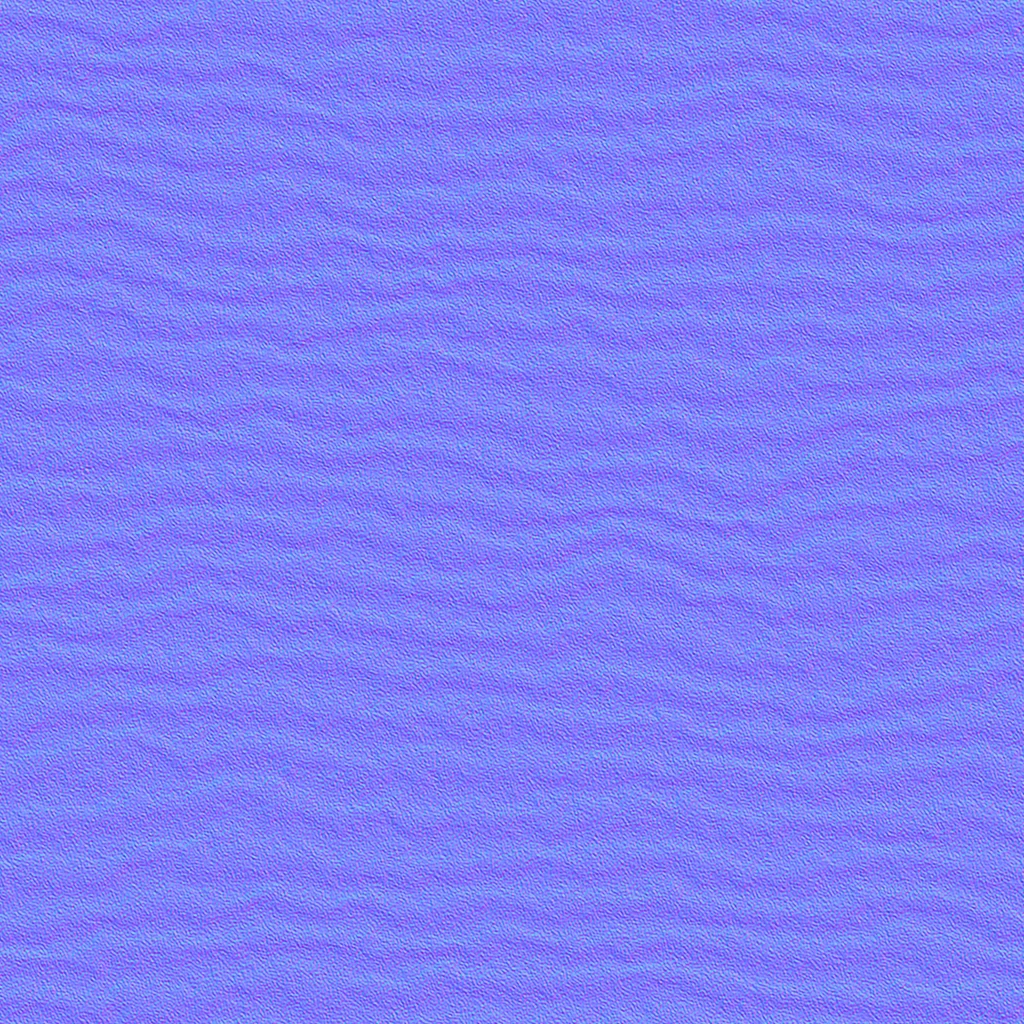
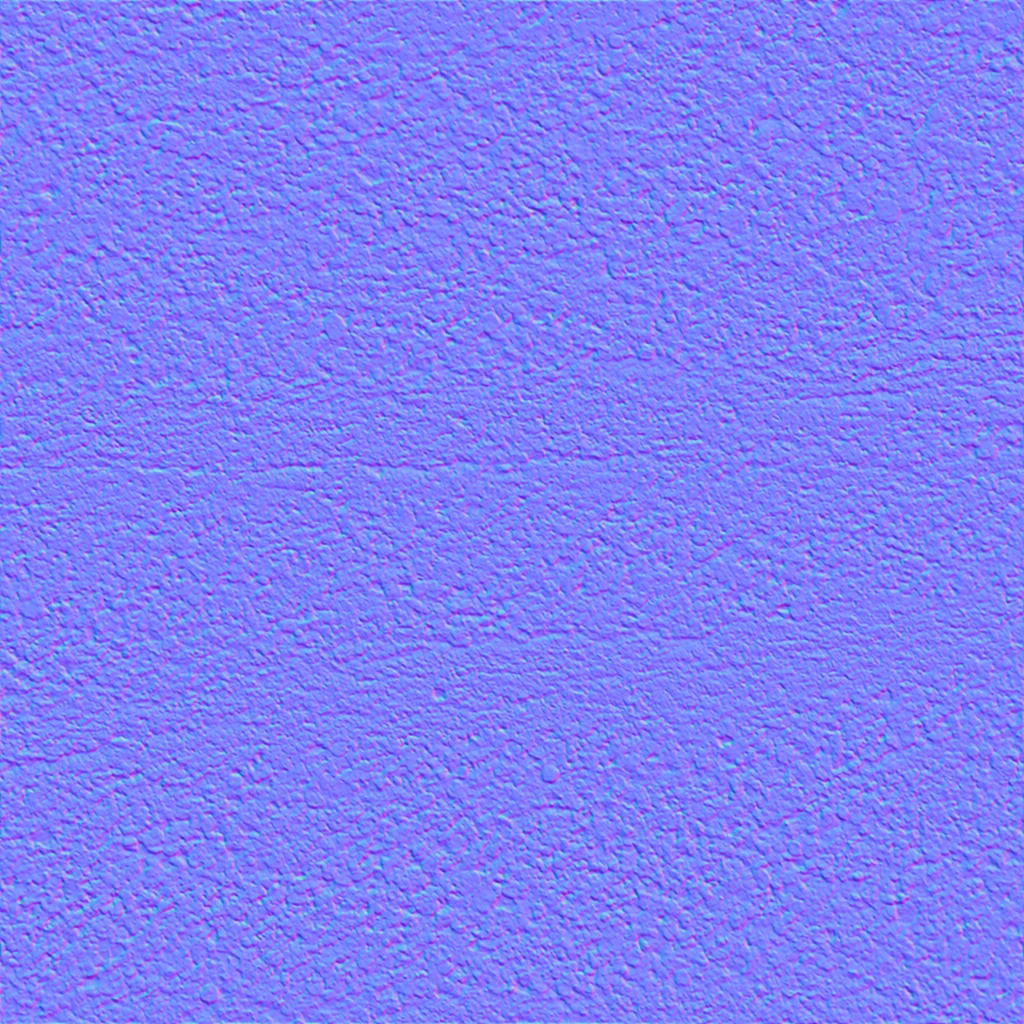
Terra v1.4.2: 11 das 12 amostras com texturas a partir de imagens; quartzo nasce de uma base de basalto (geodo)
Claude-Session: https://claude.ai/code/session_018tvpZFtV9LVsjJ7r2h5Z8G

diff --git a/apps/terra/terra-models.js b/apps/terra/terra-models.js
@@ -357,7 +357,7 @@ let ENV_ROC=null;function envRochas(){if(ENV_ROC)return ENV_ROC;const W=128;cons
 /* amostra de rocha ou mineral; r = tamanho base */
 function matRocha(key,extra={}){const foto=(D.ROCHAS_FOTO||{})[key];if(foto){const rx=foto.rx||1,ry=foto.ry||1;const o=Object.assign({color:0xffffff,roughness:foto.roughness!==undefined?foto.roughness:.85,metalness:foto.metalness||0,map:texRep('rocha-'+key+'.webp',rx,ry),envMap:envRochas(),envMapIntensity:foto.reflexo!==undefined?foto.reflexo:.6},extra);if(foto.roughness!==undefined)o.roughness=foto.roughness;if(foto.normal!==false){o.normalMap=texRep('rocha-'+key+'-normal.webp',rx,ry,{srgb:false});o.normalScale=new T.Vector2(foto.relevo||.8,foto.relevo||.8);}return new T.MeshStandardMaterial(o);}return mat(0xffffff,Object.assign({map:texRocha2(key)},extra));}
 function amostra(key,opt={}){const g=new T.Group();const r=opt.r||.5;const seed=ROCHAS_KEYS.indexOf(key)+1;const tx=texRocha2(key);
-  if(key==='quartzo'){const mQ=matRocha('quartzo',{transparent:true,opacity:.72,metalness:.05});[[0,0,0,0,1],[.22,.05,.1,.5,.7],[-.2,.02,.12,-.6,.6]].forEach(([x,z,tz,rz,sc])=>{const p=new T.Group();const prisma=new T.Mesh(new T.CylinderGeometry(r*.3,r*.34,r*1.4,6),mQ);prisma.position.y=r*.7;p.add(prisma);const ponta=new T.Mesh(new T.ConeGeometry(r*.3,r*.45,6),mQ);ponta.position.y=r*1.62;p.add(ponta);p.scale.setScalar(sc);p.position.set(x*r*2,0,z*r*2);p.rotation.z=rz*.5;p.rotation.y=tz;g.add(p);});const base=new T.Mesh(pedra(r*.55,3,1,.2,[1.6,.5,1.3]),matRocha('arenito'));g.add(base);}
+  if(key==='quartzo'){const mQ=matRocha('quartzo',{transparent:true,opacity:.72,metalness:.05});[[0,0,0,0,1],[.22,.05,.1,.5,.7],[-.2,.02,.12,-.6,.6]].forEach(([x,z,tz,rz,sc])=>{const p=new T.Group();const prisma=new T.Mesh(new T.CylinderGeometry(r*.3,r*.34,r*1.4,6),mQ);prisma.position.y=r*.7;p.add(prisma);const ponta=new T.Mesh(new T.ConeGeometry(r*.3,r*.45,6),mQ);ponta.position.y=r*1.62;p.add(ponta);p.scale.setScalar(sc);p.position.set(x*r*2,0,z*r*2);p.rotation.z=rz*.5;p.rotation.y=tz;g.add(p);});const base=new T.Mesh(pedra(r*.55,3,1,.2,[1.6,.5,1.3]),matRocha('basalto'));g.add(base);}
   else if(key==='feldspato'){const mF=matRocha('feldspato');const b=new T.Mesh(pedra(r*.78,seed,2,.03,[1.35,.95,.95],12,.42),mF);b.rotation.set(.1,.4,-.05);b.position.y=r*.62;g.add(b);const b2=new T.Mesh(pedra(r*.42,seed+5,1,.03,[1.2,1,.9],10,.44),mF);b2.position.set(r*.75,r*.4,r*.3);b2.rotation.set(.3,-.5,.2);g.add(b2);}
   else if(key==='mica'){const mM=matRocha('mica',{roughness:.25,metalness:.55});for(let i=0;i<8;i++){const pl=new T.Mesh(new T.CylinderGeometry(r*.9,r*.9,r*.035,6),mM);pl.position.set(Math.sin(i*1.7)*r*.06,r*.04+i*r*.05,Math.cos(i*2.1)*r*.06);pl.rotation.y=i*.12;pl.rotation.x=(i%2?1:-1)*.03;g.add(pl);}}
   else if(key==='ardosia'){const mA=matRocha('ardosia',{roughness:.7});for(let i=0;i<3;i++){const geo=new T.BoxGeometry(r*2.1-i*r*.25,r*.11,r*1.5-i*r*.2);const pl=new T.Mesh(geo,mA);pl.position.set(i*r*.08,r*.06+i*r*.12,-i*r*.05);pl.rotation.y=i*.06;g.add(pl);}}

diff --git a/apps/terra/terra-data.js b/apps/terra/terra-data.js
@@ -2,7 +2,7 @@
    Conteúdo: tema Camadas da Terra (Contexto, Explorar, Monte as camadas, Viagem ao centro, Desafio).
    Temas: Camadas da Terra, Placas tectônicas, Vulcões e Rochas e minerais. Textos no tom falado das narrações (chaves = nomes dos MP3 em audio/). */
 (function(){'use strict';
-const D={version:'1.4.1'};
+const D={version:'1.4.2'};
 D.temas=[
  {id:'camadas',nome:'Camadas da Terra',estuda:'Do que a Terra é feita por dentro.',exemplos:'Crosta, manto, núcleo externo e núcleo interno',modulo:'cam',atividades:['contexto','explorar','montar','viagem'],questoes:['liquida','kola','manto','magnetico','sismicas','interno','oceanica','temperatura']},
  {id:'placas',nome:'Placas tectônicas',estuda:'Por que a crosta se mexe, treme e se quebra.',exemplos:'Placas, limites, terremotos, vulcões e a deriva dos continentes',modulo:'pla',atividades:['placContexto','placasExp','limites','volta'],questoes:['placasMovem','andes','atlantico','sanandreas','brasil','pangeia']},
@@ -96,7 +96,7 @@ D.rocContext=[
  {name:'O ciclo das rochas',text:'E nenhuma rocha fica igual para sempre. O magma esfria e vira rocha ígnea; a chuva e o vento quebram a rocha em grãos, que se juntam e viram rocha sedimentar; o calor e a pressão transformam qualquer rocha em metamórfica; e, lá no fundo, tudo pode derreter e virar magma de novo. É o ciclo das rochas, que leva milhões de anos para dar uma volta.'}
 ];
 /* texturas das amostras (assets/rocha-<chave>.webp + -normal.webp), geradas por tools/gerar-texturas-rochas.py;
-   granito, basalto e obsidiana vêm de imagens (tools/fontes-texturas/terra) tratadas por tools/foto-para-textura.py; uma foto com o mesmo nome substitui a textura sem mexer no código. rx/ry = repetições, relevo = força do normal map, reflexo = brilho do ambiente */
+   todas, exceto a mica, vêm de imagens (tools/fontes-texturas/terra) tratadas por tools/foto-para-textura.py; uma foto com o mesmo nome substitui a textura sem mexer no código. rx/ry = repetições, relevo = força do normal map, reflexo = brilho do ambiente */
 D.ROCHAS_FOTO={granito:{roughness:.62,relevo:.9,reflexo:.55},basalto:{roughness:.85,relevo:1.1,reflexo:.3},obsidiana:{roughness:.06,relevo:.6,reflexo:.9,metalness:.1},pomes:{roughness:1,relevo:1.4,reflexo:.15},arenito:{roughness:.95,relevo:1,reflexo:.2},calcario:{roughness:.85,relevo:1,reflexo:.3},carvao:{roughness:.4,relevo:.9,reflexo:.9},marmore:{roughness:.3,relevo:.5,reflexo:.8},ardosia:{roughness:.6,relevo:.8,reflexo:.5,rx:1.2,ry:1.2},quartzo:{roughness:.08,relevo:.4,reflexo:1.3,rx:1,ry:1},feldspato:{roughness:.42,relevo:.7,reflexo:.6,rx:1,ry:1},mica:{roughness:.18,relevo:.5,reflexo:1.2,metalness:.35,rx:1,ry:1}};
 D.CICLO={
  estados:{

diff --git a/apps/terra/index.html b/apps/terra/index.html
@@ -4,13 +4,13 @@
 <meta charset="utf-8"><meta name="viewport" content="width=device-width,initial-scale=1,viewport-fit=cover">
 <meta name="theme-color" content="#08192c"><meta name="description" content="Terra por Dentro: camadas da Terra (crosta, manto, núcleo externo e interno), a Terra aberta ao meio, montagem das camadas e uma viagem em primeira pessoa até o centro do planeta. Modelos procedurais, narração em português, 3D e VR.">
 <title>Terra por Dentro · Laboratório de aprendizagem | Portal do Educador</title>
-<link rel="icon" href="assets/logo.png"><link rel="stylesheet" href="terra-lab.css?v=1.4.1"><link rel="stylesheet" href="terra-portal.css?v=1.4.1">
+<link rel="icon" href="assets/logo.png"><link rel="stylesheet" href="terra-lab.css?v=1.4.2"><link rel="stylesheet" href="terra-portal.css?v=1.4.2">
 <script defer src="vendor/three.r128.min.js"></script>
-<script defer src="terra-data.js?v=1.4.1"></script>
-<script defer src="terra-models.js?v=1.4.1"></script>
-<script defer src="terra-audio.js?v=1.4.1"></script>
-<script defer src="terra-app.js?v=1.4.1"></script>
-<script defer src="terra-portal.js?v=1.4.1"></script>
+<script defer src="terra-data.js?v=1.4.2"></script>
+<script defer src="terra-models.js?v=1.4.2"></script>
+<script defer src="terra-audio.js?v=1.4.2"></script>
+<script defer src="terra-app.js?v=1.4.2"></script>
+<script defer src="terra-portal.js?v=1.4.2"></script>
 </head>
 <body>
 <div id="lab">
@@ -63,5 +63,5 @@
 <dialog id="summaryDialog"><div class="dialog-head"><h2>Resumo da experiência</h2><button id="closeSummary" data-action="closeSummary" class="icon" aria-label="Fechar resumo">✕</button></div><div id="summaryContent"></div><details><summary>Exportar registros brutos</summary><div class="button-row"><button id="downloadJSON" data-action="downloadJSON">Exportar JSON</button><button id="downloadCSV" data-action="downloadCSV">Exportar CSV</button></div></details><p class="fine">Registros desta aba; a identificação do aluno ou grupo é opcional e fica apenas neste dispositivo. O resumo descreve ações e tentativas; não é um diagnóstico de aprendizagem.</p></dialog>
 <dialog id="sourcesDialog"><form method="dialog"><div class="dialog-head"><h2>Fontes e limites</h2><button class="icon" aria-label="Fechar fontes">✕</button></div></form><div id="sourcesContent"></div></dialog>
 <script>window.addEventListener('error',function(e){console.error('Corpo Humano:',e.message);});</script>
-<script defer src="terra-relatorio.js?v=1.4.1"></script>
+<script defer src="terra-relatorio.js?v=1.4.2"></script>
 </body></html>

diff --git a/index.html b/index.html
@@ -488,7 +488,7 @@ document.addEventListener('webkitfullscreenchange',function(){
    O app fica pré-carregado num iframe invisível (mesma origem). O clique aqui conta como gesto
    do usuário para o iframe, então a sessão WebXR abre na hora, sem segundo toque. */
 /* BUILD muda a cada publicação: força o navegador do óculos a buscar o index.html novo dos apps (o GitHub Pages ignora a query) */
-const BUILD='20261013n';
+const BUILD='20261013o';
 const appFrames={};
 /* os links dos cartões também levam a versão, para abrir direto sem cache antigo */
 document.querySelectorAll('.card-actions a[href^="apps/"]').forEach(a=>{const u=new URL(a.getAttribute('href'),location.href);u.searchParams.set('v',BUILD);a.setAttribute('href',u.pathname+u.search);});

diff --git a/apps/terra/sw.js b/apps/terra/sw.js
@@ -2,7 +2,7 @@
    Objetivo: a aplicação funcionar sem internet depois da primeira abertura (rede de escola oscila; Chromebook, lousa e Quest).
    Duas caches: a "casca" (html, css, js, three.js) muda a cada versão; a "pesada" (modelos .glb e áudios .mp3) é persistente e só
    rebaixa os arquivos cujo hash mudou no precache.json. Pedidos com Range (trilha de fundo) recebem 206 a partir do arquivo em cache. */
-const VERSAO='1.4.1-4aa6e5';
+const VERSAO='1.4.2-3e6d96';
 const CASCA='terra-casca-'+VERSAO,PESADA='terra-pesada-v1',META='terra-meta-v1';
 const ESCOPO=new URL(self.registration.scope).pathname;
 let baixando=false;
